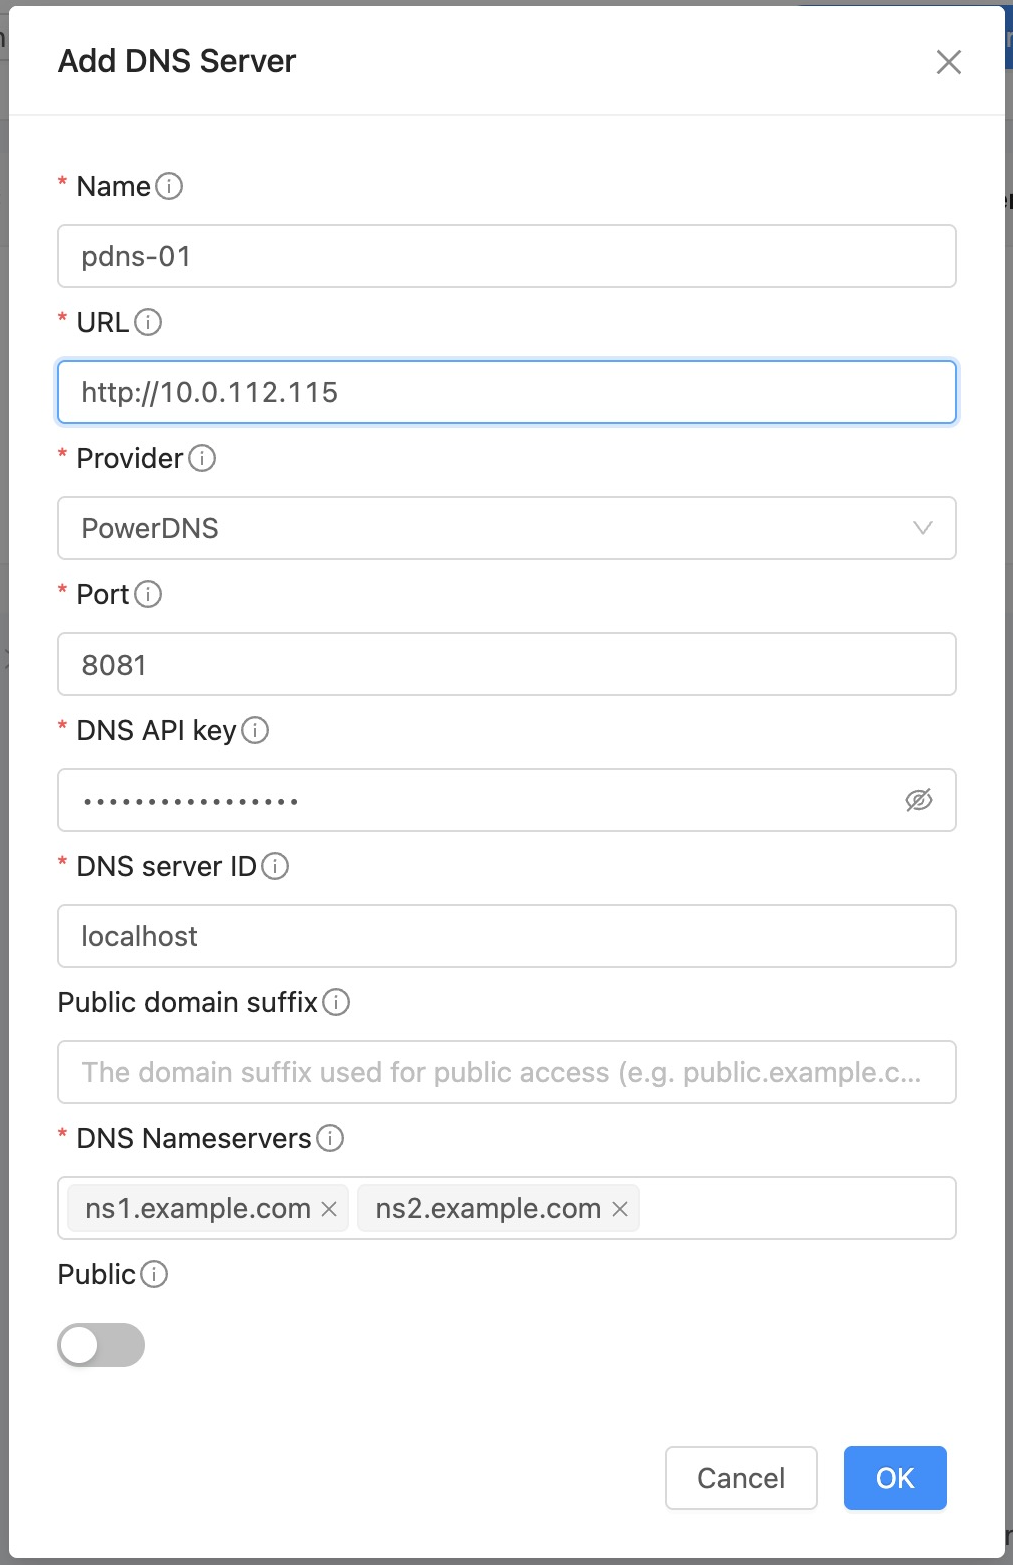
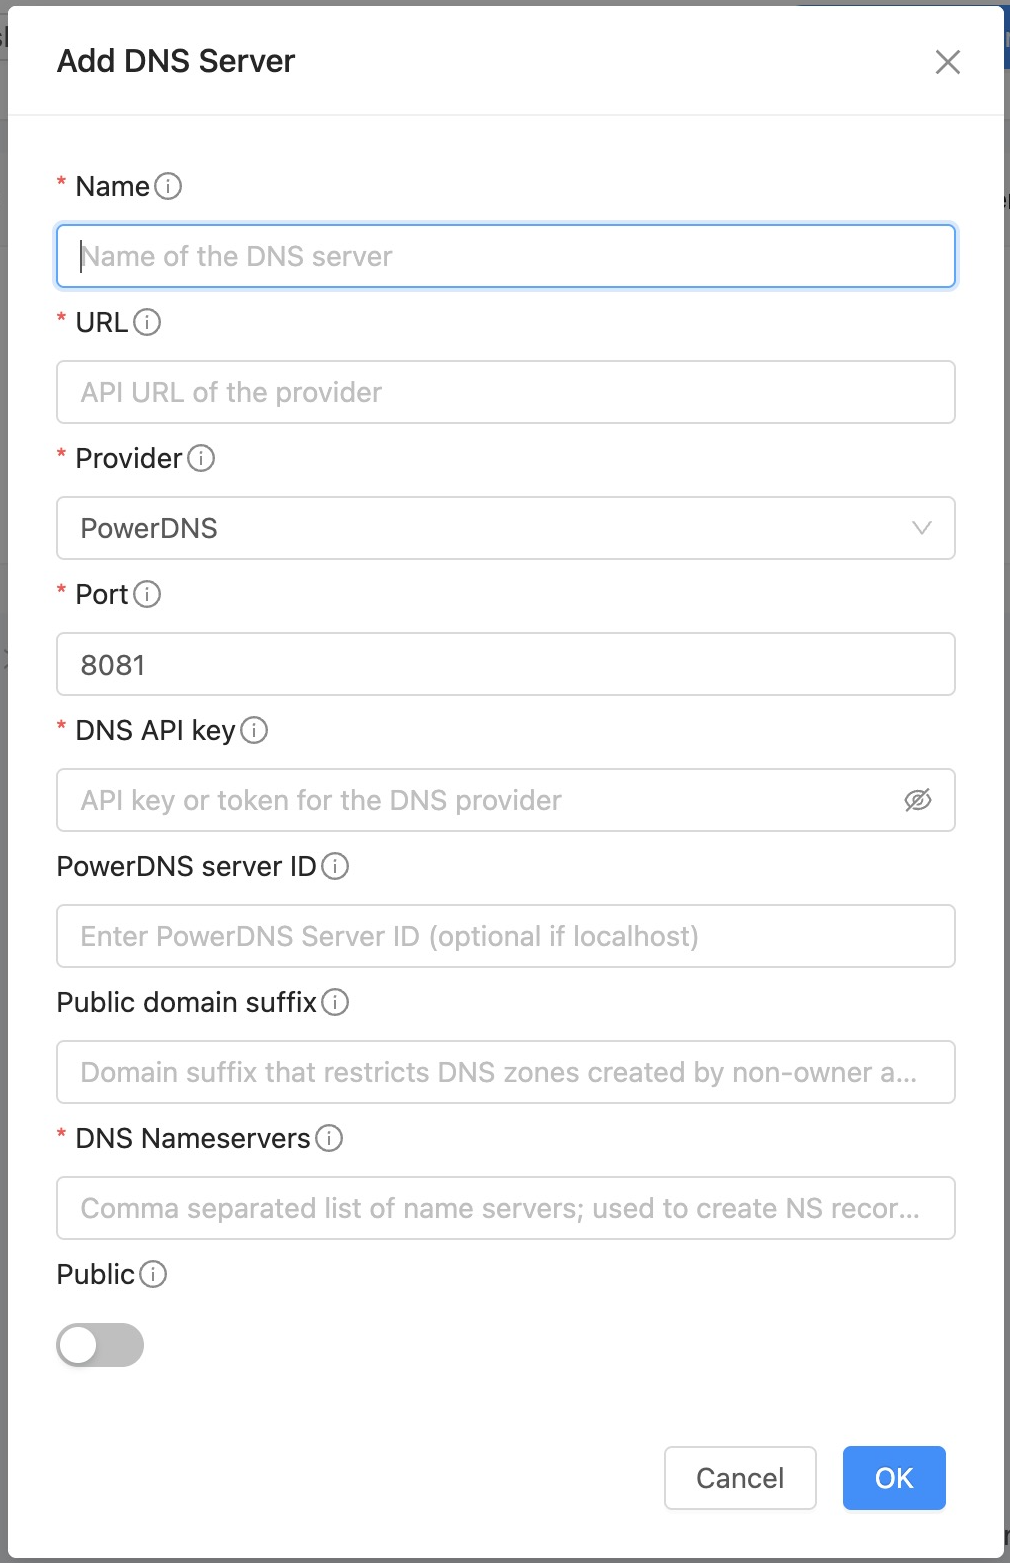
update params for addDnsServer and add updateDnsServer scenario

diff --git a/source/adminguide/networking/dns_framework.rst b/source/adminguide/networking/dns_framework.rst
@@ -107,7 +107,7 @@ Using the API, a DNS server can be added with a command similar to the following
 
    cmk add dnsserver name="pdns-01" provider="PowerDNS" \
       url="http://<powerdns-ip>:8081" dnsapikey="<api-key>" \
-      nameservers="ns1.example.com,ns2.example.com" externalserverid="localhost"
+      nameservers="ns1.cloud.internal,ns2.cloud.internal" details[0].pdnsServerId=localhost
 
 **Parameters**
 
@@ -132,13 +132,13 @@ Using the API, a DNS server can be added with a command similar to the following
      - API key or token used for authentication
    * - ``nameservers``
      - Yes
-     - Comma-separated list of authoritative name servers
+     - Comma separated list of name servers; used to create NS records for the DNS Zone (for example, ns1.example.com, ns2.example.com)
    * - ``dnsusername``
      - No
      - Username or email associated with the DNS provider account
-   * - ``externalserverid``
+   * - ``details``
      - No
-     - Identifier or hostname of the DNS server in the provider (for example, ``localhost`` in PowerDNS)
+     - Additional provider-specific details in key-value format (e.g., for PowerDNS, ``pdnsServerId`` can be used to specify the server ID in PowerDNS)
    * - ``port``
      - No
      - Port number of the DNS server (if different from default)
@@ -168,6 +168,68 @@ This includes:
 .. code:: bash
 
    cmk list dnsservers
+
+
+Updating a DNS Server
+---------------------
+
+DNS Server configuration can be updated to modify connection details, credentials, name servers, and other metadata. This allows administrators to maintain accurate configurations as DNS provider details change or to update operational parameters without needing to recreate the DNS server.
+
+From UI:
+
+.. image:: /_static/images/update_dns_server.png
+   :width: 400px
+   :align: center
+   :alt: Update DNS Server in CloudStack UI
+
+.. raw:: html
+
+   <br>
+
+Using the API:
+
+.. code:: bash
+
+    cmk update dnsserver id=<dns-server-id> \
+         nameservers="ns1.cloud.internal,ns2.cloud.internal,ns3.cloud.internal" \
+         name="pdns-new-server"
+
+
+**Parameters**
+
+.. list-table::
+    :widths: 20 15 65
+    :header-rows: 1
+
+    * - Name
+       - Required
+       - Description
+    * - ``id``
+       - Yes
+       - The ID of the DNS server to update
+    * - ``nameservers``
+       - No
+       - Comma separated list of name servers; used to create NS records for the DNS Zone (for example, ns1.example.com, ns2.example.com)
+    * - ``name``
+       - No
+       - Name of the DNS server
+    * - ``dnsapikey``
+       - No
+       - API key or credentials for the external provider
+    * - ``ispublic``
+       - No
+       - Whether this DNS server can be used by accounts other than the owner to create and manage DNS zones
+    * - ``port``
+       - No
+       - Port number of the external DNS server
+    * - ``publicdomainsuffix``
+       - No
+       - Domain suffix that restricts DNS zones created by non-owner accounts to subdomains of this suffix
+    * - ``url``
+       - No
+       - API URL of the provider
+
+.. note:: Updating ``nameservers`` only affects new DNS zones created through this server. Existing DNS zones and their current NS records are not modified.
 
 
 DNS Zone Management
@@ -492,15 +554,11 @@ In the Instance details view, the DNS name assigned to each NIC is displayed alo
 Disassociating a DNS Zone from a Network
 ----------------------------------------
 
-A DNS zone can be disassociated from a network, which will stop automatic DNS record management for instances in that network. 
-
-This can be done via the CloudStack UI or API.
-
-From UI:
+A DNS zone can be disassociated from a network, which will stop automatic DNS record management for instances in that network.
 
 Navigate to the **Guest Networks** page, select the network, and use the quick action to disassociate the DNS zone.
 
-From API:
+Or use the API to disassociate:
 
 .. code:: bash
 
